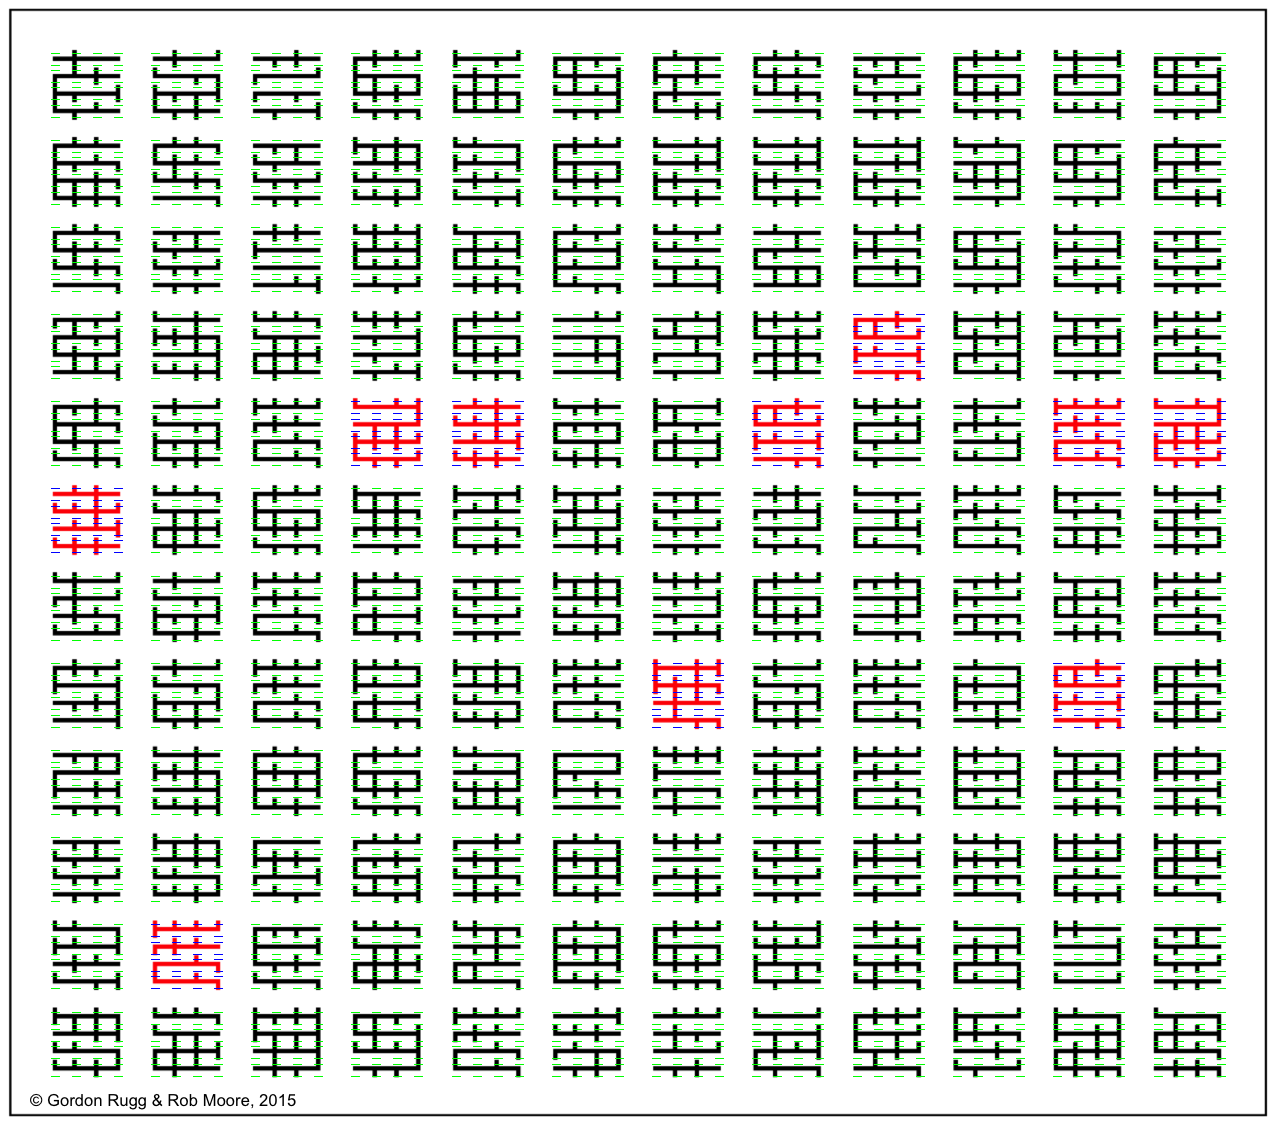
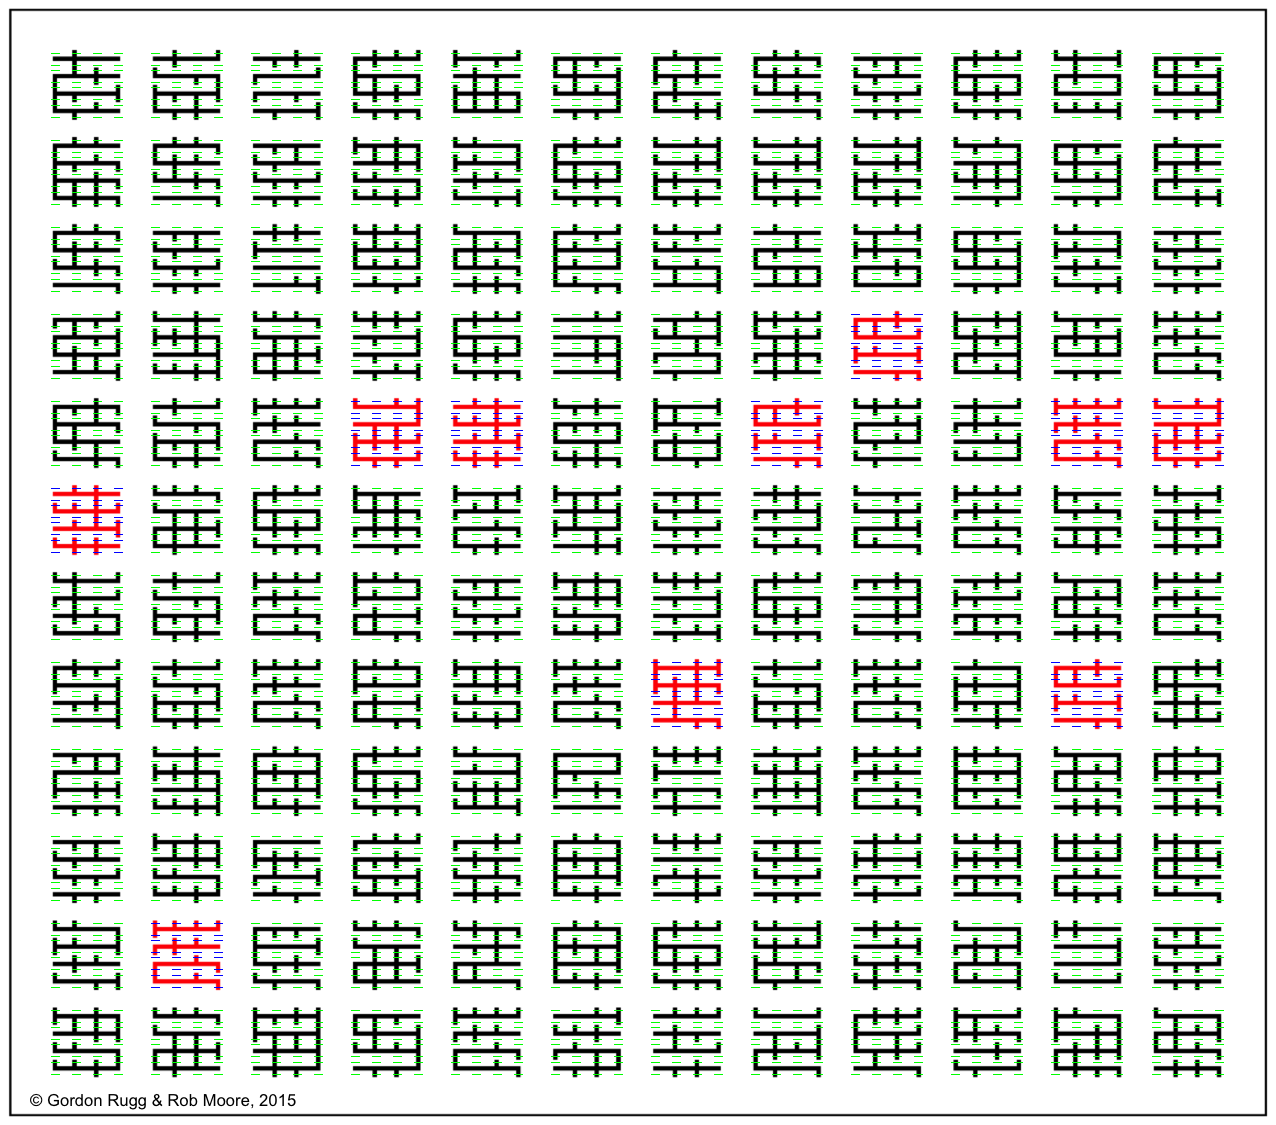
fixed offset coords per panel

diff --git a/penitentia.py b/penitentia.py
@@ -10,9 +10,10 @@ marks_folder = 'marks'
 hex_folder = 'hex'
 y0 = 59
 x0 = 55
-y_last = 1018
-x_last = 1158
-bad_ids = {'2,3':(1010,1149), '2,4':(1012,1149), '3,1':(1020,x_last), '3,4':(1015,x_last)}
+yx_last = {'1,1':(1018,1158), '1,2':(1018,1158), '1,3':(1016,1155), '1,4':(1016,1155),
+           '2,1':(1015,1155), '2,2':(1016,1155), '2,3':(1010,1149), '2,4':(1012,1151),
+           '3,1':(1021,1160), '3,2':(1016,1158), '3,3':(1017,1156), '3,4':(1015,1154),
+           '4,1':(1016,1156), '4,2':(1016,1155), '4,3':(1019,1159), '4,4':(1019,1159)}
 dline = (111-y0)/3
 dy = 6
 dx = (118-x0)/3
@@ -109,8 +110,8 @@ for filename in os.listdir(images_folder):
             images[id].append([])
             for col in range(12):
                 images[id][row].append([])
-                drow = ((bad_ids[id][0] if id in bad_ids else y_last) - y0) / 11
-                dcol = ((bad_ids[id][1] if id in bad_ids else x_last) - x0) / 11
+                drow = (yx_last[id][0] - y0) / 11
+                dcol = (yx_last[id][1] - x0) / 11
                 y = int(y0 + row * drow)
                 x = int(x0 + col * dcol)
                 x1 = max(x - xtol, 0)
